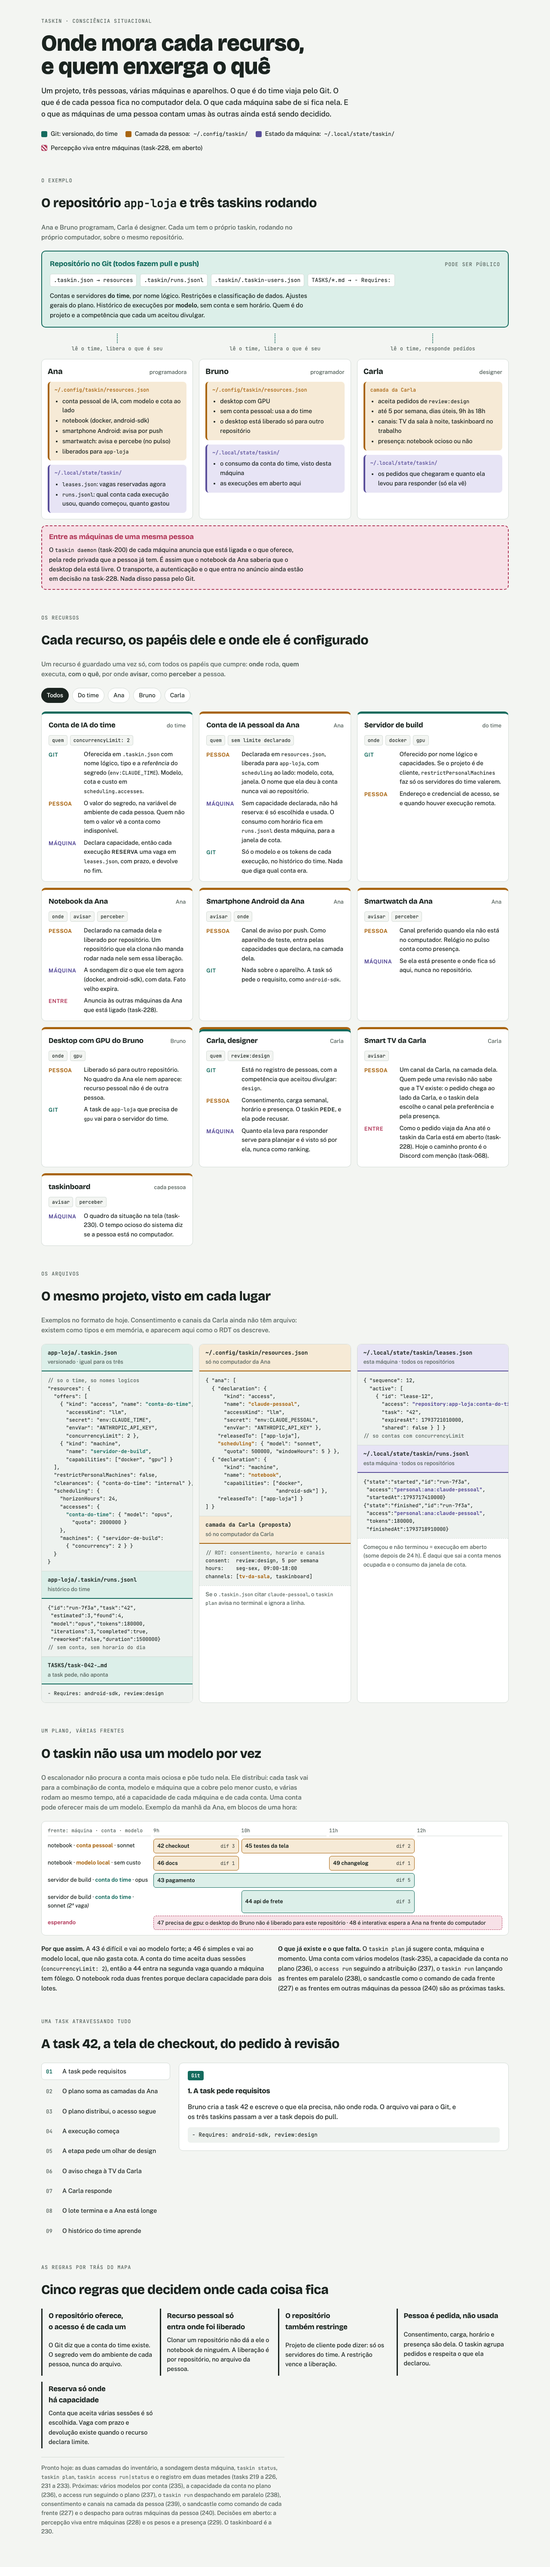
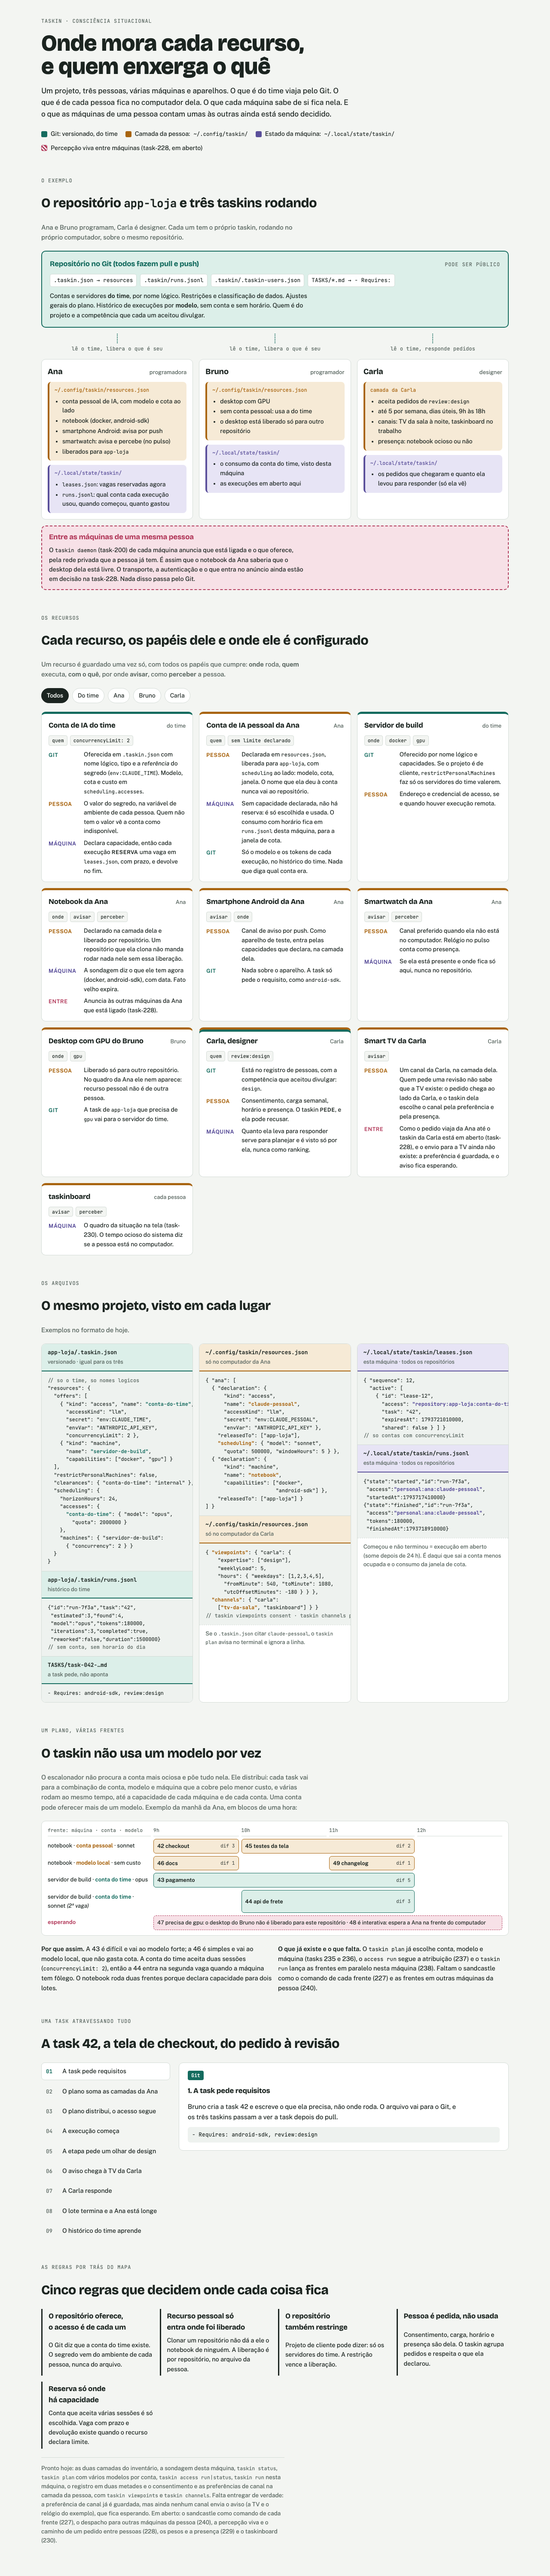
docs(task-234): o mapa e o RDT depois do lote 7
O mapa passa a mostrar o que o lote 7 entregou (varios modelos por conta, o
taskin run nesta maquina, consentimento e canais na camada da pessoa, no
formato real) e diz que nenhum canal entrega o aviso ainda.

diff --git a/docs/RDT/consciencia-situacional-mapa.html b/docs/RDT/consciencia-situacional-mapa.html
@@ -437,7 +437,7 @@ pre {
       <div class="chips"><span class="chip">avisar</span></div>
       <div class="rows">
         <div class="row"><b class="p">Pessoa</b><span>Um canal da Carla, na camada dela. Quem pede uma revisão não sabe que a TV existe: o pedido chega ao lado da Carla, e o taskin dela escolhe o canal pela preferência e pela presença.</span></div>
-        <div class="row"><b class="n">Entre</b><span>Como o pedido viaja da Ana até o taskin da Carla está em aberto (task-228). Hoje o caminho pronto é o Discord com menção (task-068).</span></div>
+        <div class="row"><b class="n">Entre</b><span>Como o pedido viaja da Ana até o taskin da Carla está em aberto (task-228), e o envio para a TV ainda não existe: a preferência é guardada, e o aviso fica esperando.</span></div>
       </div>
     </article>
 
@@ -455,7 +455,7 @@ pre {
 <section aria-labelledby="arquivos">
   <span class="eyebrow">Os arquivos</span>
   <h2 id="arquivos">O mesmo projeto, visto em cada lugar</h2>
-  <p class="muted">Exemplos no formato de hoje. Consentimento e canais da Carla ainda não têm arquivo: existem como tipos e em memória, e aparecem aqui como o RDT os descreve.</p>
+  <p class="muted">Exemplos no formato de hoje.</p>
 
   <div class="files-grid">
     <div class="panel panel-git">
@@ -514,11 +514,16 @@ pre {
                        "android-sdk"] },
     "releasedTo": ["app-loja"] }
 ] }</pre>
-      <div class="panel-head"><span class="path">camada da Carla (proposta)</span><span class="who">só no computador da Carla</span></div>
-<pre><span class="cmt">// RDT: consentimento, horario e canais</span>
-consent:  review:design, 5 por semana
-hours:    seg-sex, 09:00-18:00
-channels: [<span class="k-p">tv-da-sala</span>, taskinboard]</pre>
+      <div class="panel-head"><span class="path">~/.config/taskin/resources.json</span><span class="who">só no computador da Carla</span></div>
+<pre>{ <span class="k-p">"viewpoints"</span>: { "carla": {
+    "expertise": ["design"],
+    "weeklyLoad": 5,
+    "hours": { "weekdays": [1,2,3,4,5],
+      "fromMinute": 540, "toMinute": 1080,
+      "utcOffsetMinutes": -180 } } },
+  <span class="k-p">"channels"</span>: { "carla":
+    [<span class="k-p">"tv-da-sala"</span>, "taskinboard"] } }
+<span class="cmt">// taskin viewpoints consent · taskin channels prefer</span></pre>
       <div class="never">Se o <code>.taskin.json</code> citar <code>claude-pessoal</code>, o <code>taskin plan</code> avisa no terminal e ignora a linha.</div>
     </div>
 
@@ -588,7 +593,7 @@ channels: [<span class="k-p">tv-da-sala</span>, taskinboard]</pre>
   </div>
   <div class="dist-notes">
     <p><b>Por que assim.</b> A 43 é difícil e vai ao modelo forte; a 46 é simples e vai ao modelo local, que não gasta cota. A conta do time aceita duas sessões (<code>concurrencyLimit: 2</code>), então a 44 entra na segunda vaga quando a máquina tem fôlego. O notebook roda duas frentes porque declara capacidade para dois lotes.</p>
-    <p><b>O que já existe e o que falta.</b> O <code>taskin plan</code> já sugere conta, máquina e momento. Uma conta com vários modelos (task-235), a capacidade da conta no plano (236), o <code>access run</code> seguindo a atribuição (237), o <code>taskin run</code> lançando as frentes em paralelo (238), o sandcastle como o comando de cada frente (227) e as frentes em outras máquinas da pessoa (240) são as próximas tasks.</p>
+    <p><b>O que já existe e o que falta.</b> O <code>taskin plan</code> já escolhe conta, modelo e máquina (tasks 235 e 236), o <code>access run</code> segue a atribuição (237) e o <code>taskin run</code> lança as frentes em paralelo nesta máquina (238). Faltam o sandcastle como o comando de cada frente (227) e as frentes em outras máquinas da pessoa (240).</p>
   </div>
 </section>
 
@@ -613,7 +618,7 @@ channels: [<span class="k-p">tv-da-sala</span>, taskinboard]</pre>
     <div class="rule"><h3>Pessoa é pedida, não usada</h3><p>Consentimento, carga, horário e presença são dela. O taskin agrupa pedidos e respeita o que ela declarou.</p></div>
     <div class="rule"><h3>Reserva só onde há capacidade</h3><p>Conta que aceita várias sessões é só escolhida. Vaga com prazo e devolução existe quando o recurso declara limite.</p></div>
   </div>
-  <p class="status-note">Pronto hoje: as duas camadas do inventário, a sondagem desta máquina, <code>taskin status</code>, <code>taskin plan</code>, <code>taskin access run|status</code> e o registro em duas metades (tasks 219 a 226, 231 a 233). Próximas: vários modelos por conta (235), a capacidade da conta no plano (236), o access run seguindo o plano (237), o <code>taskin run</code> despachando em paralelo (238), consentimento e canais na camada da pessoa (239), o sandcastle como comando de cada frente (227) e o despacho para outras máquinas da pessoa (240). Decisões em aberto: a percepção viva entre máquinas (228) e os pesos e a presença (229). O taskinboard é a 230.</p>
+  <p class="status-note">Pronto hoje: as duas camadas do inventário, a sondagem desta máquina, <code>taskin status</code>, <code>taskin plan</code> com vários modelos por conta, <code>taskin access run|status</code>, <code>taskin run</code> nesta máquina, o registro em duas metades e o consentimento e as preferências de canal na camada da pessoa, com <code>taskin viewpoints</code> e <code>taskin channels</code>. Falta entregar de verdade: a preferência de canal já é guardada, mas ainda nenhum canal envia o aviso (a TV e o relógio do exemplo), que fica esperando. Em aberto: o sandcastle como comando de cada frente (227), o despacho para outras máquinas da pessoa (240), a percepção viva e o caminho de um pedido entre pessoas (228), os pesos e a presença (229) e o taskinboard (230).</p>
 </section>
 
 </div>
@@ -651,7 +656,7 @@ channels: [<span class="k-p">tv-da-sala</span>, taskinboard]</pre>
       p: 'O agente chega ao review:design e abre um pedido em vez de adivinhar. O registro de pessoas, que é versionado, diz quem aceitou divulgar a competência design: a Carla. O agente segue com a próxima task do lote enquanto espera.',
       cmd: 'ViewpointRequested → reviewer: carla, expertise: design' },
     { t: 'O aviso chega à TV da Carla', where: ['person', 'live'],
-      p: 'São 19h e a Carla está em casa. O taskin dela escolhe o canal pela preferência e pela presença: a TV da sala. A Ana nunca soube que a TV existe. Como o pedido sai da máquina da Ana e chega ao lado da Carla está em decisão na task-228; o Discord com menção já funciona.',
+      p: 'São 19h e a Carla está em casa. O taskin dela escolhe o canal pela preferência e pela presença: a TV da sala. A Ana nunca soube que a TV existe. Como o pedido sai da máquina da Ana e chega ao lado da Carla está em decisão na task-228, e nenhum canal envia o aviso ainda: a preferência dela já é guardada, e o aviso fica esperando.',
       cmd: 'canal: tv-da-sala (camada da Carla)' },
     { t: 'A Carla responde', where: ['git', 'machine'],
       p: 'Ela aceita e entrega a opinião. A resposta volta registrada na task, como evidência. Quanto ela levou para responder fica só com ela.',

diff --git a/docs/RDT/consciencia-situacional.md b/docs/RDT/consciencia-situacional.md
@@ -718,6 +718,11 @@ entre modelos, contas e máquinas:
   ambiente, cada chamada no seu worktree.
 - **A 240 depende da 228 e da 238.**
 
+O lote 7 está fechado. Ele rodou sobre os commits das tasks 231 a 234, antes da
+revisão deles, e o que falta para a distribuição valer de ponta a ponta é a 227
+e a 240. A preferência de canal já mora na camada da pessoa, mas o `channels`
+ainda não tem quem entregue: nenhum canal envia o aviso, e ele fica esperando.
+
 ## Decisões em aberto
 
 - **O formato do inventário**: o que a sondagem descobre sozinha e o que se
